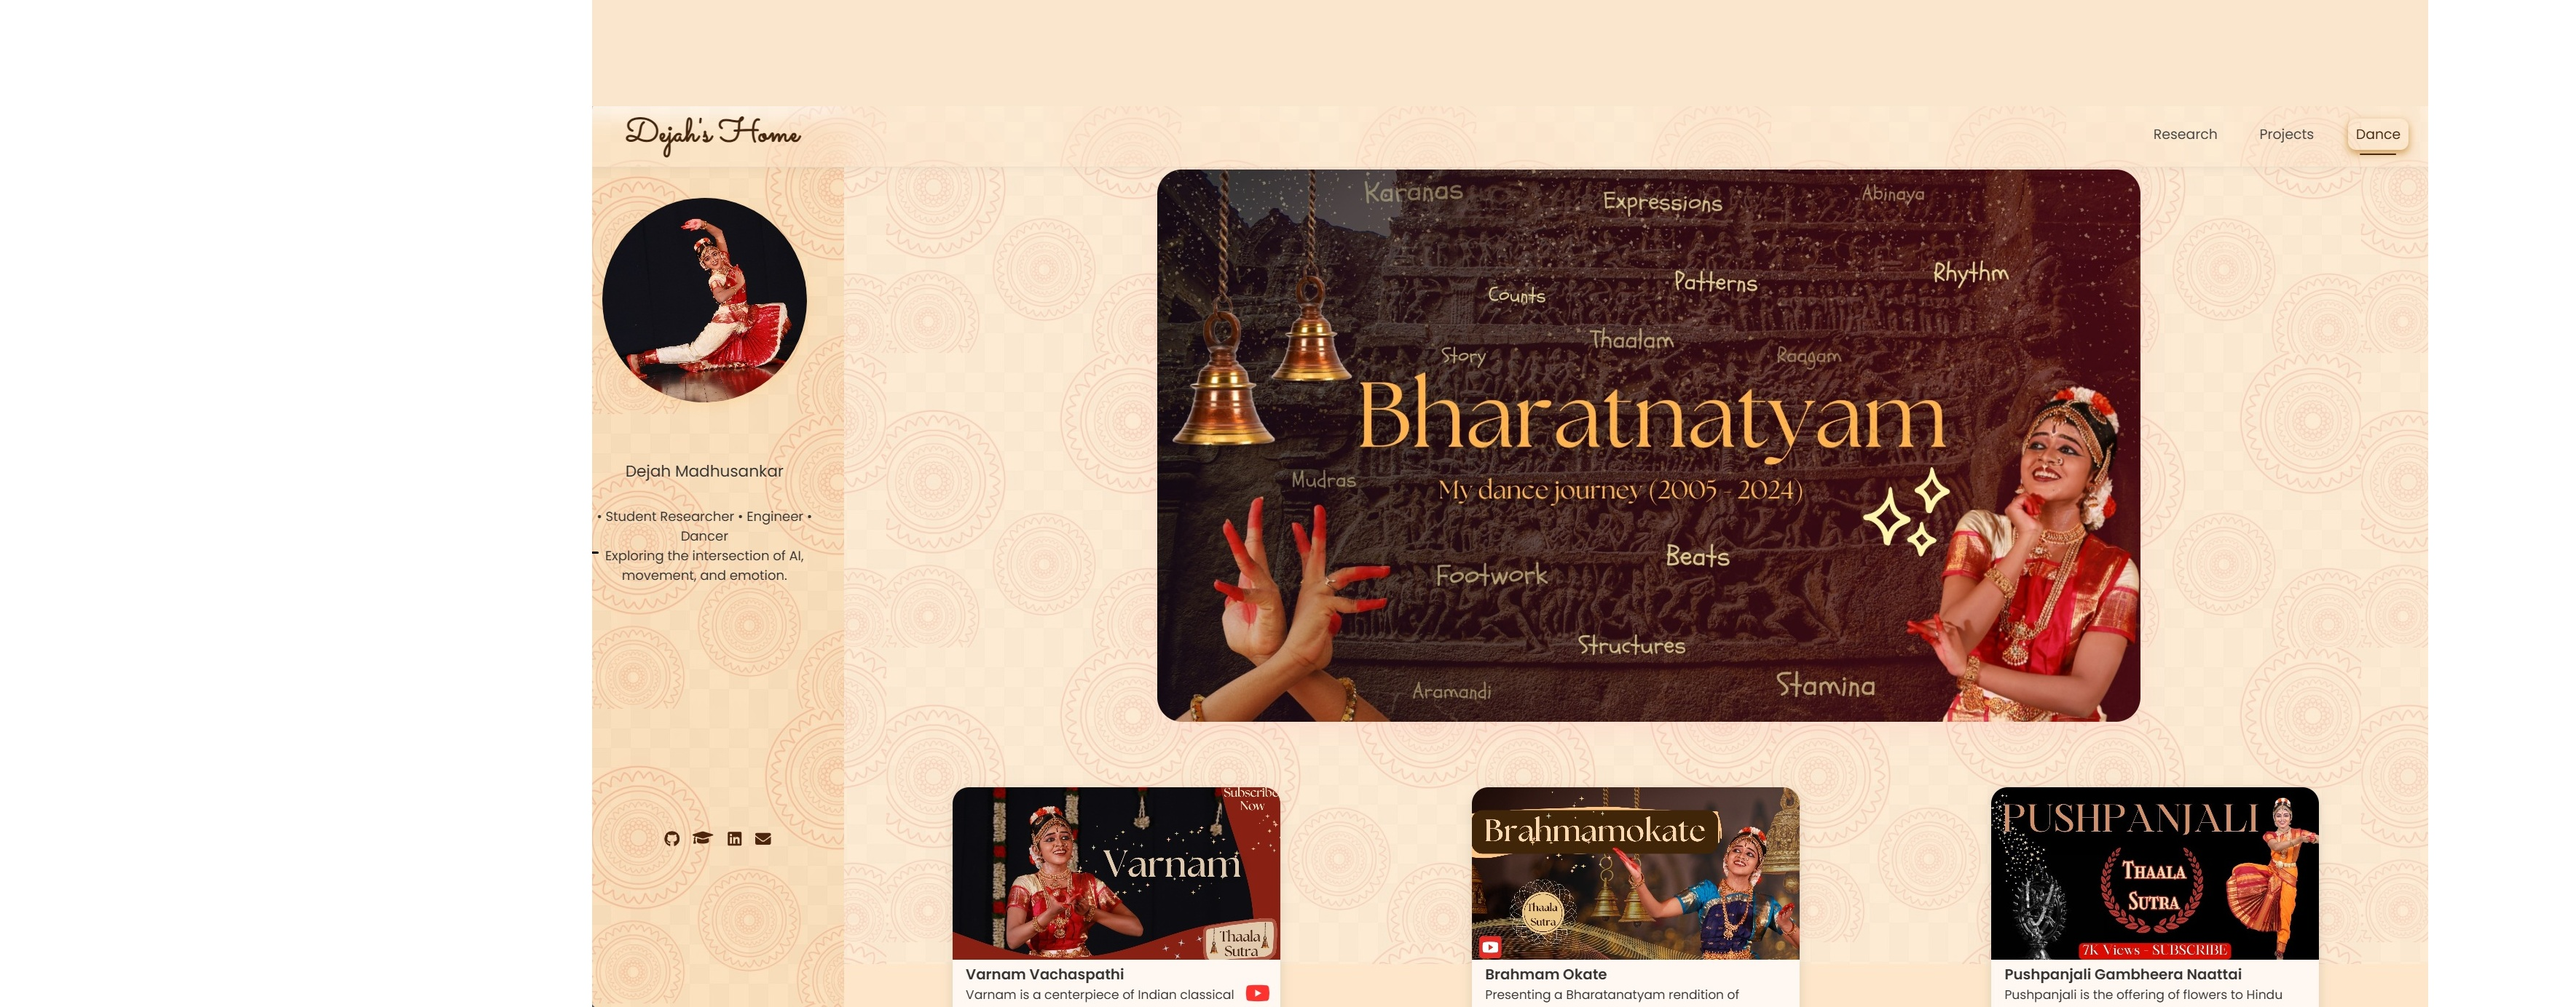
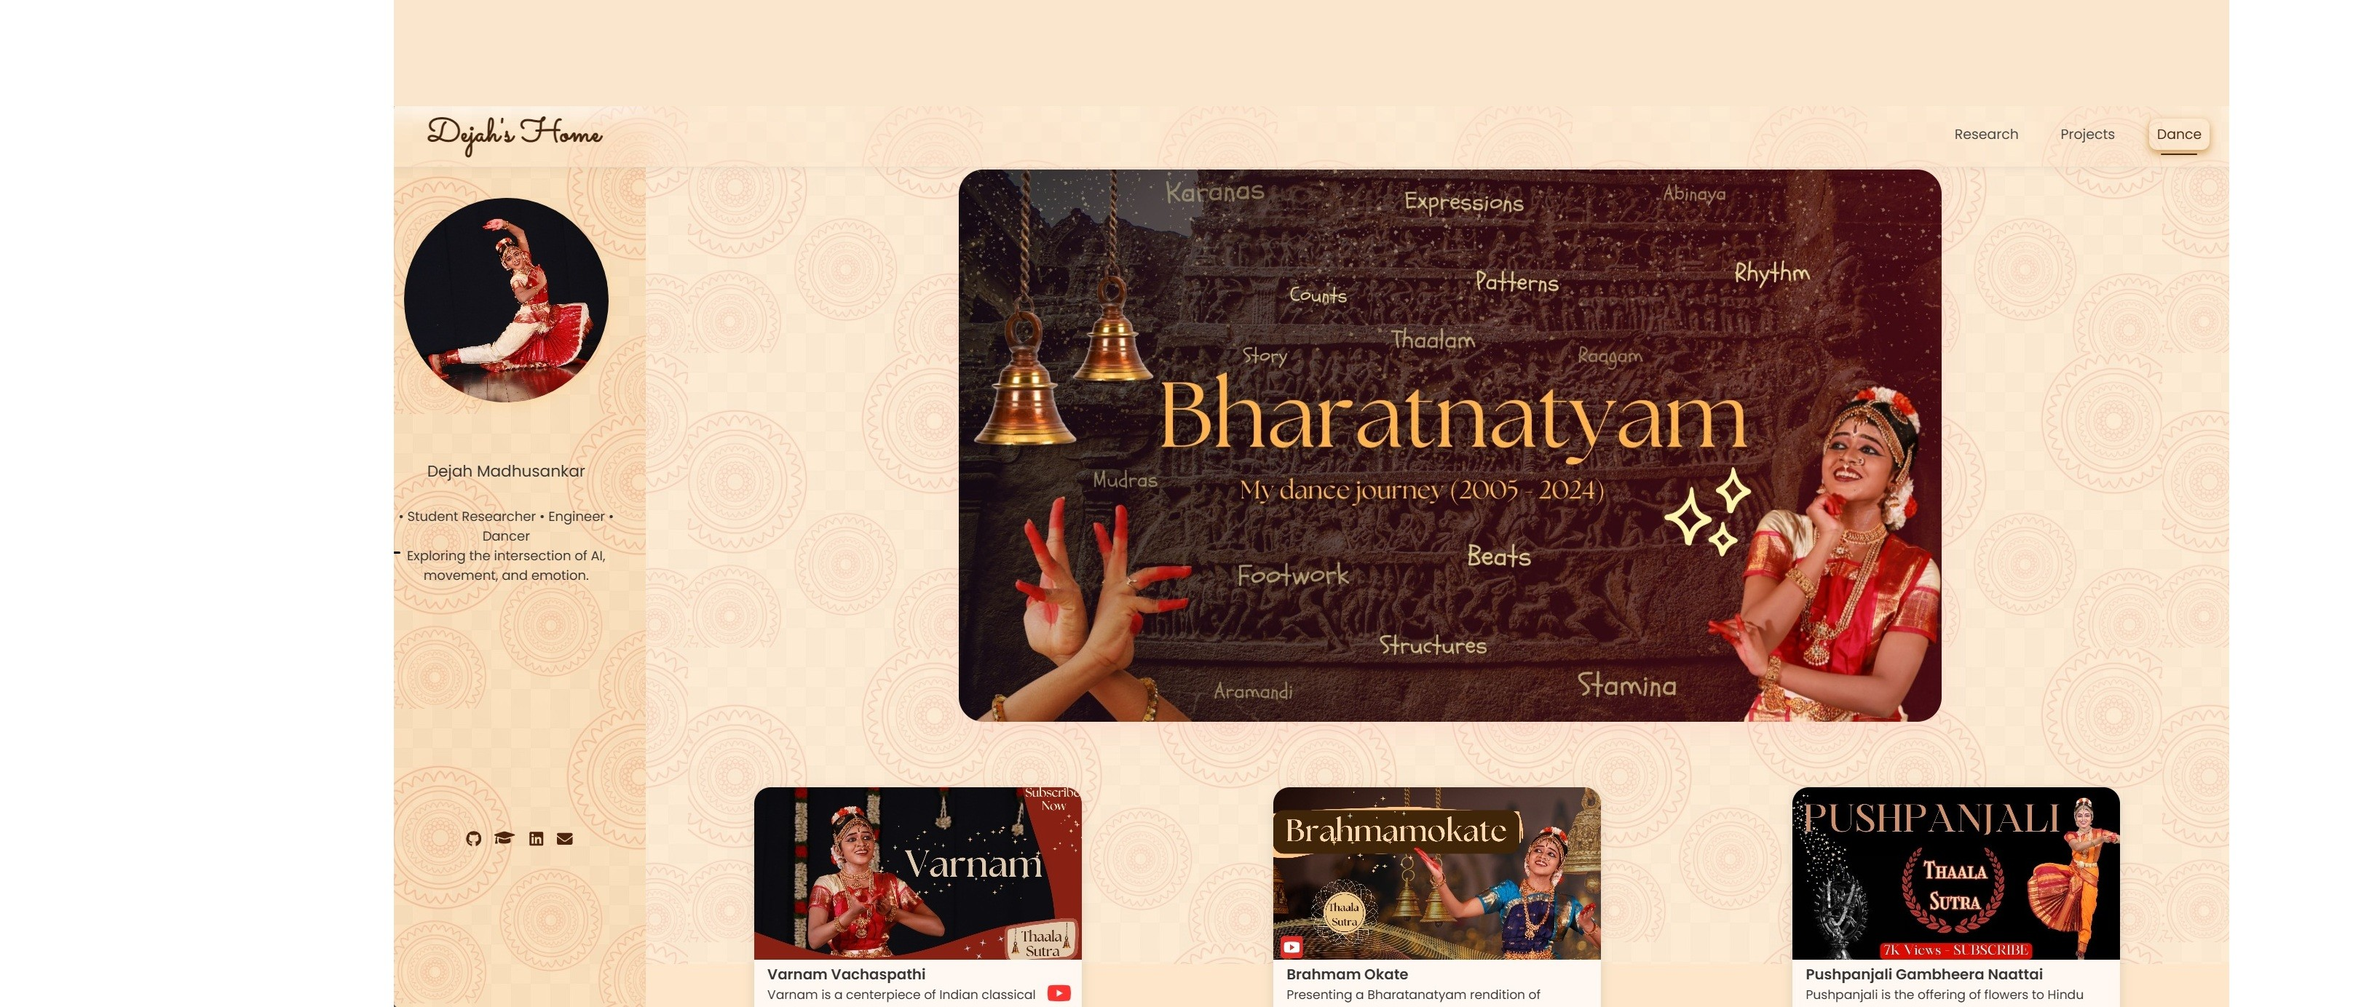
layout corrections

diff --git a/src/components/Dance.jsx b/src/components/Dance.jsx
@@ -11,27 +11,36 @@ import kumaraSambhavam from "../assets/kumaraSambhavamRaagam.jpg";
 import thillanaHindholam from "../assets/thillanaRaagam.jpg";
 import shriChakraRaaja from "../assets/shriChakraRaaja.jpg";
 import kaavadiChindu from "../assets/kaavadiChindu.jpg";
+import maadumeikumkanne from "../assets/maaduMeikum.jpg";
+import { image } from "framer-motion/client";
 
 const Dance = () => {
   const projects = [
     {
       image: varnam,
       title: "Varnam",
-      desc: "Snippet from a 45-minute narrative dance of a maiden waiting for her long-gone lover.",
+      desc: "Snippet from a 45-minute narrative dance of a maiden reminiscing and waiting for her long-gone lover.",
       youtube: "https://www.youtube.com/watch?v=8iPHOOw55nA",
+    },
+    {
+      image: maadumeikumkanne,
+      title: "Maadu Meikum Kanne",
+      desc: "A playful dialogue between a mother and her charming but naughty son, Krishna (dual-role)!",
+      youtube: "https://www.youtube.com/watch?v=Cus-P2GeDUM",
     },
     {
       image: brahmam,
       title: "Brahmam Okate",
-      desc: "A dance to remind us that everyone and everything was created equal.",
+      desc: "To remind us that everyone and everything was created equal.",
       youtube: "https://www.youtube.com/watch?v=YRfWTIQgSPU",
     },
     {
       image: pushpanjali,
       title: "Pushpanjali",
-      desc: "A salutory dance to the Gods, the musicians the teachers and the audience.",
+      desc: "Salutory dance to the Gods, the musicians the teachers and the audience.",
       youtube: "https://www.youtube.com/watch?v=XjJhiG36XTI",
     },
+
     {
       image: shabdham,
       title: "Venuganane Shabdham",
@@ -40,7 +49,7 @@ const Dance = () => {
     },
     {
       image: pushpanjaliAadhi,
-      title: "Pushpanjali Gambheera Naattai",
+      title: "Pushpanjali Aadhi",
       desc: "A salutory dance by offering flowers to the Gods, the musicians and the audience",
       youtube: "https://www.youtube.com/shorts/3QOZOLSasOo",
     },
@@ -63,7 +72,7 @@ const Dance = () => {
     {
       image: kaavadiChindu,
       title: "Kaavadi Chindu",
-      desc: "A lively folk dance",
+      desc: "A lively and traditional folk-style dance dedicated to Lord Murugan",
       youtube: "https://www.youtube.com/shorts/TOiED_28BHY",
     },
   ];

diff --git a/src/styles/Research.css b/src/styles/Research.css
@@ -1,5 +1,8 @@
 .research-page {
-  padding: 8rem 3rem 3rem 5rem;
+  /* padding: 8rem 3rem 3rem 5rem; */
+  padding: clamp(5rem, 6vw, 8rem) clamp(1rem, 4vw, 3rem) clamp(2rem, 3vw, 3rem)
+    clamp(2rem, 5vw, 5rem);
+
   background-color: #fffaf4;
   min-height: 100vh;
   color: #402f23;
@@ -16,7 +19,7 @@
 .research-list {
   display: flex;
   flex-direction: column;
-  gap: 1.5rem;
+  gap: clamp(1rem, 1vw, 3rem);
 }
 
 .research-card {
@@ -44,8 +47,8 @@
 }
 
 .authors {
-  font-size: 0.95rem;
-  color: #746a5e;
+  font-size: 0.98rem;
+  color: #433e37;
   margin: -0.5rem 0 1rem 0;
 }
 
@@ -60,12 +63,15 @@
   border: 2px solid #8b6b4f; /* warm brown */
   color: #3d2b1f;
   padding: 0.5rem 1.2rem;
+  padding: clamp(0.35rem, 0.5vw + 0.2rem, 0.55rem) clamp(0.9rem, 1.5vw, 1.4rem);
   border-radius: 10px;
   cursor: pointer;
   font-weight: 500;
+  font-size: clamp(0.6rem, 1vw + 0.4rem, 0.85rem);
   font-family: "Poppins", sans-serif;
   transition: all 0.3s ease;
   text-decoration: none;
+  white-space: nowrap; /* clean buttons on mobile */
 }
 
 .btn-abstract:hover,
@@ -83,10 +89,50 @@
   padding: 0;
   opacity: 0;
   color: #4e3a28;
+  font-size: clamp(0.85rem, 0.7vw + 0.5rem, 1rem);
 }
 
 .abstract-drawer.open {
   max-height: 500px;
   padding: 1rem 0 0 0;
   opacity: 1;
+}
+
+/* === MOBILE FRIENDLINESS === */
+@media (max-width: 700px) {
+  .research-page {
+    padding: 6rem 1.2rem 3rem 1.2rem;
+  }
+
+  .button-group {
+    flex-direction: row;
+    gap: clamp(0.6rem, 1.5vw, 1rem);
+  }
+  .abstract-drawer.open {
+    max-height: 500px;
+    padding: clamp(0.5rem, 1vw, 1rem) 0 0 0;
+    font-size: clamp(0.7rem, 0.7vw + 0.4rem, 0.8rem);
+
+    opacity: 1;
+  }
+
+  .btn-abstract,
+  .btn-paper {
+    padding: clamp(0.35rem, 0.5vw + 0.2rem, 0.55rem)
+      clamp(0.9rem, 1.5vw, 1.4rem);
+  }
+  .authors {
+    font-size: clamp(0.7rem, 0.7vw + 0.4rem, 0.8rem);
+  }
+  .paper-title {
+    font-size: clamp(0.8rem, 1vw + 0.7rem, 0.5rem);
+  }
+  .research-card {
+    padding: clamp(1rem, 2vw, 2rem);
+  }
+  .research-title {
+    font-size: clamp(1.2rem, 2.5vw + 0.5rem, 2.4rem);
+    margin-bottom: clamp(1.5rem, 3vw, 2.5rem);
+    margin-top: clamp(1.2rem, 2vw, 2rem);
+  }
 }

diff --git a/src/styles/ProjectCard.css b/src/styles/ProjectCard.css
@@ -22,7 +22,7 @@
   flex-direction: column;
   justify-content: space-between;
   position: relative;
-  aspect-ratio: 4 / 5; /* scales nicely with screen */
+  height: auto;
   border: none;
   box-shadow: none;
   transition: box-shadow 0.25s ease, border 0.25s ease, transform 0.25s ease;
@@ -39,10 +39,9 @@
 
 /* Image */
 .image-container {
-  flex: 0 0 60%;
   width: 100%;
+  height: clamp(200px, 20vw, 220px);
   overflow: hidden;
-  flex-shrink: 0;
 }
 
 .image-container img {
@@ -63,7 +62,7 @@
 .card-content h3 {
   font-size: clamp(0.9rem, 1vw + 0.6rem, 1.2rem);
   color: #412700;
-  margin-top: 1rem;
+  margin-top: 0.8rem;
   font-weight: 600;
 }
 
@@ -71,7 +70,7 @@
   font-size: clamp(0.8rem, 0.8vw + 0.5rem, 0.95rem);
   color: #0c0a07;
   margin-top: -0.7rem;
-  margin-bottom: 1.5rem;
+  margin-bottom: 0.5rem;
   line-height: 1.2;
 }
 
@@ -113,17 +112,17 @@ a:focus-visible {
   display: flex;
   flex-wrap: wrap;
   gap: 0.4rem;
-  margin-top: auto;
-  padding-bottom: 0.5rem;
+  margin-bottom: -0.5rem;
 }
 
 .tool-tag {
-  background: rgba(255, 248, 240, 0.4);
-  border: 1px solid rgba(180, 140, 90, 0.25);
-  color: #4b3a2a;
-  font-size: 0.75rem;
-  padding: 0.01rem 0.6rem;
-  border-radius: 10px;
+  background: rgba(228, 196, 159, 0.4);
+  border: 2px solid rgba(180, 140, 90, 0.25);
+  color: #0f0700;
+  font-weight: clamp(400, 1vw + 0.2rem, 500);
+  font-size: clamp(0.8rem, 0.8vw + 0.5rem, 0.85rem);
+  padding: 0.01rem 0.1rem;
+  border-radius: 5px;
   backdrop-filter: blur(4px);
   transition: 0.25s ease, transform 0.25s ease;
 }

diff --git a/src/styles/Dance.css b/src/styles/Dance.css
@@ -98,16 +98,16 @@
 }
 
 .dance-card-content h3 {
-  font-size: clamp(1rem, 1vw + 0.8rem, 1.3rem);
+  font-size: clamp(1rem, 1vw + 0.8rem, 1.15rem);
   font-weight: 600;
   color: #4a3528;
   margin: 0;
 }
 
 .dance-card-content p {
-  font-size: clamp(0.9rem, 0.8vw + 0.6rem, 1rem);
+  font-size: clamp(0.9rem, 0.8vw + 0.6rem, 0.95rem);
   margin: 0.2rem 0 0.4rem 0;
-  color: #7d6c5c;
+  color: #523b25;
 }
 
 /* YouTube link icon */
@@ -162,7 +162,28 @@
   }
 
   .dance-projects-grid {
-    grid-template-columns: 1fr;
-    gap: 1.5rem;
+    grid-template-columns: repeat(auto-fit, minmax(160px, 1fr));
+    gap: 1.2rem;
+  }
+
+  .dance-card-content h3 {
+    font-size: clamp(0.65rem, 2.5vw, 1rem);
+    line-height: 1.1;
+  }
+
+  .dance-card-content p {
+    font-size: clamp(0.65rem, 2vw, 0.9rem);
+    line-height: 1;
+  }
+
+  .dance-card {
+    aspect-ratio: 6 / 5.5; /* Make cards slightly taller for text */
+  }
+  .youtube-link {
+    top: 0.4rem;
+    right: 0.4rem;
+    width: 15px;
+    height: 15px;
+    opacity: 0.85;
   }
 }

diff --git a/src/components/Projects.jsx b/src/components/Projects.jsx
@@ -6,7 +6,7 @@ import carbonFootprintPic from "../assets/carbonFootprint.jpg";
 import nmapPic from "../assets/nmap.png";
 import digitalPaperNotesPic from "../assets/digitalPaperNotes.jpg";
 import wordDevilPic from "../assets/wordDevil.png";
-import personalPortfolioPic from "../assets/personalPortfolioPic.jpg";
+import personalPortfolioPic from "../assets/portfolio.png";
 import musicAutoSkipperPic from "../assets/musicAutoSkipperPic.png";
 import skeleton from "../assets/skeleton.jpeg";
 import videoCaptionProjPic from "../assets/VideoCaptionProjPic.jpg";
@@ -19,7 +19,7 @@ const Projects = () => {
       desc: "A from-scratch Nmap clone that performs popular Network Protocols and Attacks",
       img: nmapPic,
       github: "https://github.com/dejah22/NetMapper",
-      tools: ["C/C++", "Socket Programming, UNIX Scripting"],
+      tools: ["C/C++", "Socket Programming", "UNIX Scripting"],
     },
     {
       title: "PosePerfect",

diff --git a/src/styles/Navbar.css b/src/styles/Navbar.css
@@ -62,13 +62,12 @@
 
 /* ============ Common Link Styles ============ */
 .nav-link {
-  --accent: #45270f;
+  --accent: #3a200c;
   position: relative;
   display: inline-block;
   text-decoration: none;
-  font-weight: 500;
-  font-size: 1.05rem;
-  color: #444;
+  font-size: large;
+  color: #271a08;
   padding: 0.4rem 0.6rem;
   border-radius: 10px;
   transition: all 0.25s ease;
@@ -116,6 +115,7 @@
   background: transparent;
   box-shadow: none;
   letter-spacing: 0.5px;
+  font-size: clamp(1.5rem, 3vw + 0.5rem, 2.5rem);
 }
 
 .nav-link.brand:hover {
@@ -137,10 +137,10 @@
   }
 
   .nav-list {
-    gap: 1.4rem;
+    gap: 0.2rem;
   }
 
   .nav-link {
-    font-size: 0.95rem;
+    font-size: 0.75rem;
   }
 }

diff --git a/src/styles/Sidebar.css b/src/styles/Sidebar.css
@@ -86,8 +86,15 @@
 }
 
 .name {
-  padding: 50px 10px 10px 10px;
-  font-size: larger;
+  padding: 50px 10px 1px 10px;
+  font-size: 150%;
+  line-height: 0%;
+  color: rgb(37, 23, 16);
+}
+.bio {
+  color: rgb(37, 23, 16);
+  font-size: large;
+  padding-top: 10%;
 }
 
 .contact-section {
@@ -115,7 +122,8 @@
 
 /* responsive sidebar toggle */
 @media (max-width: 900px) {
-  .sidebar {
+  .sidebar,
+  .sidebar-dance {
     display: none;
   }
 }

diff --git a/src/components/Sidebar.jsx b/src/components/Sidebar.jsx
@@ -22,7 +22,7 @@ const Sidebar = () => {
         </div>
         <p className="name">Dejah Madhusankar</p>
         <p className="bio">
-          • Student Researcher • Engineer • Dancer <br />
+          • Engineer • Dancer <br />
           Exploring the intersection of AI, dance, and emotion.
         </p>
       </div>

diff --git a/src/components/Home.jsx b/src/components/Home.jsx
@@ -21,7 +21,7 @@ const Home = () => {
           style={{
             fontFamily: "Sacramento",
             fontSize: 80,
-            opacity: 0.85,
+            opacity: 0.95,
             marginBottom: -10,
           }}
         >
